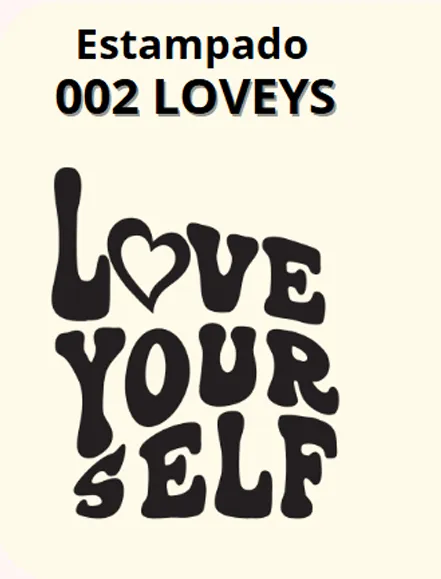
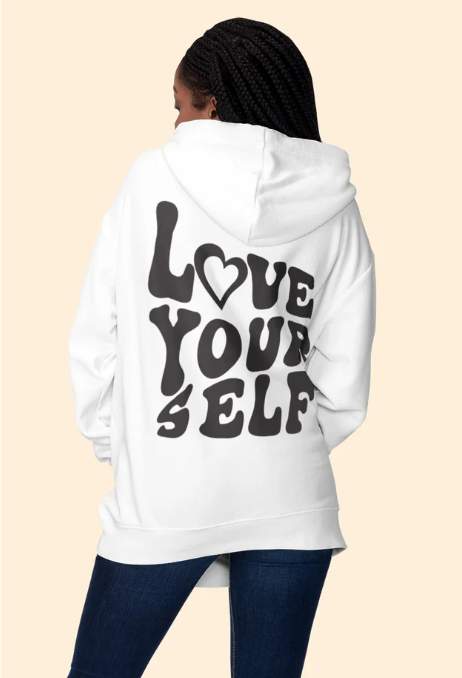
Se corrigue nombre de archivo de pago.js a pago.html

diff --git a/jvs/index.js b/jvs/index.js
@@ -31,6 +31,44 @@ function actualizarAdminLink() {
 const SUPABASE_URL = 'https://vtztpvjbhwlnspjpwhim.supabase.co';
 const SUPABASE_KEY = 'sb_publishable_FdF3E71-r0Ku4NVb-uSN7A_yNvIiTqv';
 
+// Colores de tela disponibles solo para buzos (no tienen foto por color,
+// a diferencia de los polos, asi que el cliente elige el color al pedirlo).
+const PALETA_COLORES_BUZO = [
+    { nombre: 'Negro', hex: '#0d0d0d' },
+    { nombre: 'Gris oscuro', hex: '#5a5a5a' },
+    { nombre: 'Kaki oscuro', hex: '#6b5a3a' },
+    { nombre: 'Gris', hex: '#b3b3b3' },
+    { nombre: 'Gris claro', hex: '#dcdcdc' },
+    { nombre: 'Azul marino', hex: '#050533' },
+    { nombre: 'Azul noche', hex: '#1f3a63' },
+    { nombre: 'Azul rey', hex: '#0000d6' },
+    { nombre: 'Azul', hex: '#1174d4' },
+    { nombre: 'Azul cielo', hex: '#8fd0fb' },
+    { nombre: 'Verde oscuro', hex: '#0b4d0a' },
+    { nombre: 'Verde', hex: '#159c13' },
+    { nombre: 'Verde salvia', hex: '#7fac91' },
+    { nombre: 'Verde menta', hex: '#74f2cd' },
+    { nombre: 'Verde agua', hex: '#cafcf7' },
+    { nombre: 'Mostaza', hex: '#c99615' },
+    { nombre: 'Dorado', hex: '#ffc61a' },
+    { nombre: 'Naranja', hex: '#ff9633' },
+    { nombre: 'Amarillo', hex: '#fff107' },
+    { nombre: 'Amarillo claro', hex: '#fdf6ad' },
+    { nombre: 'Morado', hex: '#4a1064' },
+    { nombre: 'Vinotinto', hex: '#8c0f37' },
+    { nombre: 'Rojo', hex: '#ee1111' },
+    { nombre: 'Rosado', hex: '#f993cc' },
+    { nombre: 'Rosado claro', hex: '#f9b7c2' },
+    { nombre: 'Rosado pastel', hex: '#fbdbe0' },
+    { nombre: 'Lila', hex: '#ddcdf6' },
+    { nombre: 'Lila claro', hex: '#fbe9fb' },
+    { nombre: 'Kaki', hex: '#c3b28d' },
+    { nombre: 'Beige', hex: '#e8dbc3' },
+    { nombre: 'Azul pastel', hex: '#dbe8f1' },
+    { nombre: 'Hueso', hex: '#f8f3ea' },
+    { nombre: 'Blanco', hex: '#ffffff' }
+];
+
 async function cargarProductos() {
     try {
         const respuesta = await fetch(
@@ -198,6 +236,21 @@ function buildTallaHandler(card, addBtn) {
     });
 }
 
+function buildColorTelaHandler(card, addBtn) {
+    const swatches = card.querySelectorAll('.tela-swatch');
+    if (!swatches.length) return;
+    const label = card.querySelector('.color-tela-actual');
+    swatches.forEach(swatch => {
+        swatch.addEventListener('click', (e) => {
+            swatches.forEach(s => s.classList.remove('active'));
+            e.currentTarget.classList.add('active');
+            const nombre = e.currentTarget.dataset.colorNombre;
+            addBtn.dataset.colorTela = nombre;
+            if (label) label.textContent = nombre;
+        });
+    });
+}
+
 // Card simple: un producto con una imagen, selector de talla
 // Card simple: un producto con una imagen, selector de talla
 function crearCardSimple(producto) {
@@ -221,6 +274,19 @@ function crearCardSimple(producto) {
             ${tallas.map(t => `<button class="talla-chip${t === tallaDefecto ? ' active' : ''}" data-talla="${t}">${t}</button>`).join('')}
         </div>` : '';
 
+    // Los buzos no tienen foto por color, asi que se elige el color de tela
+    // de una paleta fija y se guarda como dato aparte (no cambia la imagen).
+    const esBuzo = producto.categoria === 'buzos';
+    const colorTelaDefecto = PALETA_COLORES_BUZO[0].nombre;
+    const coloresTelaHTML = (esBuzo && !agotado) ? `
+        <div class="card-colores">
+            <span class="colores-label">Color: <strong class="color-tela-actual">${colorTelaDefecto}</strong></span>
+            <div class="colores-swatches">
+                ${PALETA_COLORES_BUZO.map((c, i) => `
+                    <button type="button" class="color-swatch tela-swatch${i === 0 ? ' active' : ''}" data-color-nombre="${c.nombre}" style="background:${c.hex};" title="${c.nombre}"></button>`).join('')}
+            </div>
+        </div>` : '';
+
     card.innerHTML = `
         <div class="card-img">
             ${imagenHTML}
@@ -233,6 +299,7 @@ function crearCardSimple(producto) {
             <span class="categoria-tag">${producto.categoria}</span>
             <h4>${producto.nombre}</h4>
             <span class="precio">$${producto.precio.toLocaleString('es-CO')}</span>
+            ${coloresTelaHTML}
             ${tallasHTML}
             <button
                 class="btn-agregar add-cart"
@@ -240,6 +307,7 @@ function crearCardSimple(producto) {
                 data-id="${producto.id}"
                 data-price="${producto.precio}"
                 data-talla="${tallaDefecto}"
+                ${esBuzo ? `data-color-tela="${colorTelaDefecto}"` : ''}
                 data-img="${producto.imagen}"
                 style="width:100%;"
                 ${agotado ? 'disabled' : ''}>
@@ -250,6 +318,7 @@ function crearCardSimple(producto) {
 
     const addBtn = card.querySelector('.add-cart');
     buildTallaHandler(card, addBtn);
+    buildColorTelaHandler(card, addBtn);
     buildWishlistHandler(card, () => producto.id);
 
     return card;

diff --git a/jvs/carrito.js b/jvs/carrito.js
@@ -38,7 +38,8 @@ function actualizarInterfazInicial() {
                 prod.id || index,
                 prod.quantity || 1,
                 prod.talla || null,
-                prod.imagen || null
+                prod.imagen || null,
+                prod.colorTela || null
             );
         });
     } else {
@@ -85,6 +86,7 @@ document.addEventListener("click", (e) => {
     const id = parseInt(boton.dataset.id) || Date.now();
     const tallaSelect = boton.closest('.card')?.querySelector('.talla-select');
     const talla = tallaSelect?.value || boton.dataset.talla || null;
+    const colorTela = boton.dataset.colorTela || null;
 
     if (tallaSelect && !tallaSelect.value) {
         if (typeof notifier !== 'undefined') notifier.info('Selecciona una talla primero');
@@ -98,14 +100,14 @@ document.addEventListener("click", (e) => {
     const imagenFinal = imagen || (productoCompleto ? productoCompleto.imagen : null);
 
     if (typeof cart !== 'undefined' && cart.addItem) {
-        const product = { id, nombre, precio, color, talla, imagen: imagenFinal };
+        const product = { id, nombre, precio, color, talla, colorTela, imagen: imagenFinal };
         cart.addItem(product, 1);
     } else {
-        const existente = carrito.find(p => p.id === id && p.talla === talla);
+        const existente = carrito.find(p => p.id === id && p.talla === talla && p.colorTela === colorTela);
         if (existente) {
             existente.quantity = (existente.quantity || 1) + 1;
         } else {
-            carrito.push({ id, nombre, precio, color, talla, imagen: imagenFinal, quantity: 1 });
+            carrito.push({ id, nombre, precio, color, talla, colorTela, imagen: imagenFinal, quantity: 1 });
         }
         localStorage.setItem("carrito", JSON.stringify(carrito));
     }
@@ -126,7 +128,7 @@ function updateCartUI() {
     actualizarInterfazInicial();
 }
 
-function crearItemEnCarritoHTML(nombre, precio, color, index, productId = index, quantity = 1, talla = null, imagen = null) {
+function crearItemEnCarritoHTML(nombre, precio, color, index, productId = index, quantity = 1, talla = null, imagen = null, colorTela = null) {
     const item = document.createElement("div");
     item.classList.add("cart-item");
     item.setAttribute("data-index", index);
@@ -141,6 +143,7 @@ function crearItemEnCarritoHTML(nombre, precio, color, index, productId = index,
         <div class="cart-item-info">
             <h4>${nombre}</h4>
             ${talla ? `<span class="cart-item-talla">Talla: ${talla}</span>` : ''}
+            ${colorTela ? `<span class="cart-item-talla">Color: ${colorTela}</span>` : ''}
             <span class="precio">$${precio.toLocaleString('es-CO')}</span>
             <div class="cart-item-qty">
                 <button class="qty-decrease" data-product-id="${productId}">-</button>

diff --git a/jvs/pago.js b/jvs/pago.js
@@ -32,11 +32,16 @@ document.addEventListener("DOMContentLoaded", () => {
             ? `<p style="color:var(--gris);font-size:12px;margin:2px 0;">Talla: ${producto.talla}</p>`
             : '';
 
+        const colorTelaHtml = producto.colorTela
+            ? `<p style="color:var(--gris);font-size:12px;margin:2px 0;">Color: ${producto.colorTela}</p>`
+            : '';
+
         itemRow.innerHTML = `
             ${thumbHtml}
             <div style="flex:1; min-width:0;">
                 <h4 style="font-size:14px;margin-bottom:2px;color:white;white-space:nowrap;overflow:hidden;text-overflow:ellipsis;">${producto.nombre}${cantidad > 1 ? ` x${cantidad}` : ''}</h4>
                 ${tallaHtml}
+                ${colorTelaHtml}
                 <p style="color:var(--acento);font-size:13px;font-weight:bold;margin-top:2px;">$${(producto.precio * cantidad).toLocaleString('es-CO')}</p>
             </div>
         `;
@@ -132,6 +137,7 @@ document.addEventListener("DOMContentLoaded", () => {
                             producto_id: producto.id || null,
                             nombre_producto: producto.nombre,
                             talla: producto.talla || null,
+                            color_tela: producto.colorTela || null,
                             cantidad: producto.quantity || 1,
                             precio_unitario: producto.precio
                         }))

diff --git a/jvs/advanced-features.js b/jvs/advanced-features.js
@@ -111,9 +111,11 @@ class ShoppingCart {
     }
 
     addItem(product, quantity = 1) {
-        // Un producto es "igual" si tiene mismo ID y misma talla
-        const existingItem = this.cart.find(item => item.id === product.id && item.talla === product.talla);
-        
+        // Un producto es "igual" si tiene mismo ID, misma talla y mismo color de tela
+        const existingItem = this.cart.find(item =>
+            item.id === product.id && item.talla === product.talla && item.colorTela === (product.colorTela || null)
+        );
+
         if (existingItem) {
             existingItem.quantity += quantity;
         } else {
@@ -123,6 +125,7 @@ class ShoppingCart {
                 precio: product.precio,
                 color: product.color,
                 talla: product.talla || null,
+                colorTela: product.colorTela || null,
                 quantity
             });
         }

diff --git a/login.html b/login.html
@@ -283,6 +283,7 @@
                         <div class="pedido-item-info">
                             <span class="pedido-item-nombre">${nombre}</span>
                             ${item.talla ? `<span class="pedido-item-talla">Talla ${item.talla}</span>` : ''}
+                            ${item.color_tela ? `<span class="pedido-item-talla">Color ${item.color_tela}</span>` : ''}
                         </div>
                         <span class="pedido-item-cantidad">x${cantidad}</span>
                     </div>`;

diff --git a/CSS/main.css b/CSS/main.css
@@ -1198,6 +1198,7 @@ button {
     height: 22px;
     border-radius: 50%;
     border: 2px solid transparent;
+    box-shadow: 0 0 0 1px rgba(255, 255, 255, 0.15);
     outline: 2px solid transparent;
     cursor: pointer;
     transition: transform 0.15s, outline-color 0.15s;
